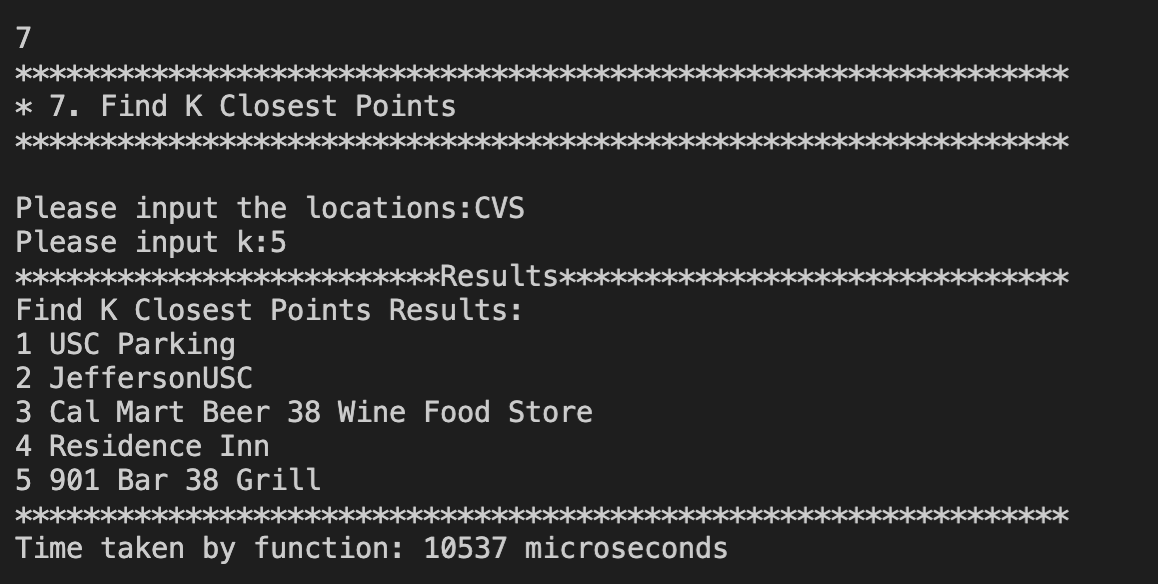
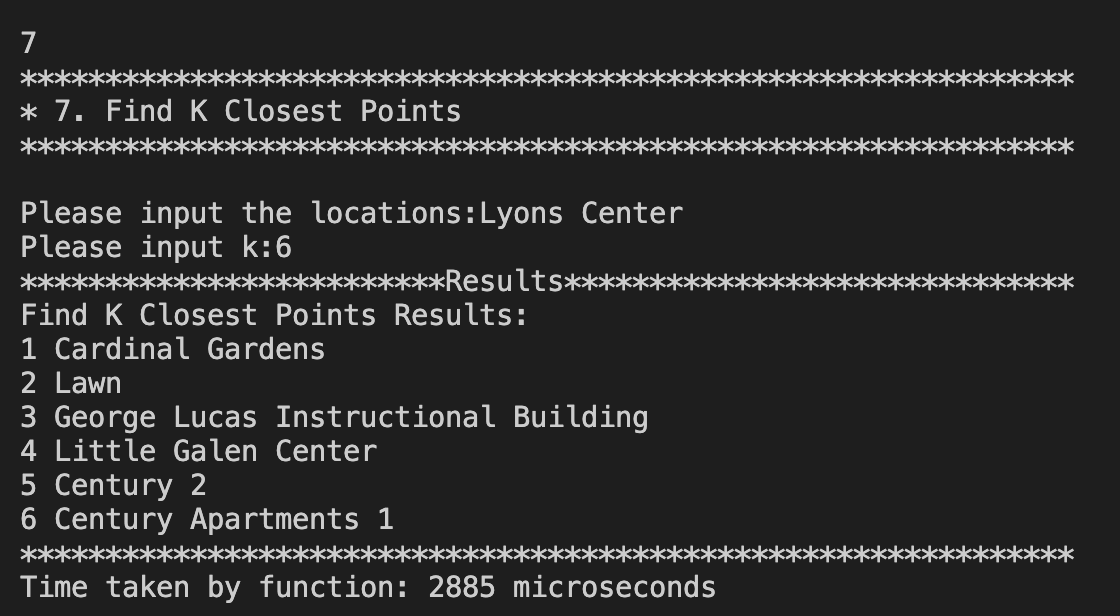
update some images

Changed region(s): [[0.0, 0.3082, 0.9688, 0.9863], [0.0, 0.0308, 0.9688, 0.2774]]

diff --git a/src/lib/trojanmap.cc b/src/lib/trojanmap.cc
@@ -1136,7 +1136,7 @@ void TrojanMap::TPS_3opt(const std::vector<std::vector<double>> &adjacent_matrix
           double d3 = CalculateDistance(path_copy[start-1], path_copy[end-1]) + 
                       CalculateDistance(path_copy[mid], path_copy[start]) + 
                       CalculateDistance(path_copy[mid-1], path_copy[end]);
-                      
+
           double d4 = CalculateDistance(path_copy[start-1], path_copy[mid]) + 
                       CalculateDistance(path_copy[end-1], path_copy[start]) + 
                       CalculateDistance(path_copy[mid-1], path_copy[end]);
@@ -1346,8 +1346,9 @@ std::vector<std::string> TrojanMap::FindKClosestPoints(std::string name, int k) 
   std::priority_queue<DJNode,std::vector<DJNode>,decltype(compare)> dist_heap(compare);
 
   for(auto &items:data){
+    if(data[items.first].name.empty()) continue;
     double dis= CalculateDistance(loc_id,items.first);
-    if(dist_heap.size()<=k+1){
+    if(dist_heap.size()<k+1){
       dist_heap.emplace(DJNode(items.first,dis));
     }else{
       if(dis<dist_heap.top().dist){
@@ -1357,14 +1358,10 @@ std::vector<std::string> TrojanMap::FindKClosestPoints(std::string name, int k) 
     }
   }
   // dist_heap.pop();
-  int j=0;
-  while (j!=k-1){
+  while (k--){
     DJNode temp=dist_heap.top();
     dist_heap.pop();
-    if(!data[temp.id].name.empty()){
-      res.push_back(temp.id);
-      j=j+1;
-    }
+    res.push_back(temp.id);
   }
   std::reverse(res.begin(),res.end());
   return res;
